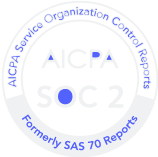
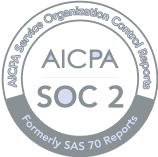
Style tuning, copyright

diff --git a/components/BuiltForScale.tsx b/components/BuiltForScale.tsx
@@ -5,15 +5,16 @@ import Image from "next/image";
 
 const features = [
   "No training on your data",
-  "Modern and secure data practices",
+  "Enterprise-grade data protection",
   "End to end encryption",
   "Audited and tested (SOC-2)",
 ];
 
 const securityBadges = [
-  { 
-    src: "/database.png", 
+  {
+    src: "/database.png",
     alt: "Database",
+    label: "No training on user data",
     corners: {
       topLeft: { h: 70, v: 20 },
       topRight: { h: 10, v: 20 },
@@ -21,9 +22,10 @@ const securityBadges = [
       bottomRight: { h: 8, v: 12 },
     },
   },
-  { 
-    src: "/california.png", 
+  {
+    src: "/california.png",
     alt: "California",
+    label: "CCPA",
     corners: {
       topLeft: { h: 8, v: 12 },
       topRight: { h: 20, v: 28 },
@@ -31,9 +33,10 @@ const securityBadges = [
       bottomRight: { h: 44, v: 20 },
     },
   },
-  { 
-    src: "/aicpa-soc2.png", 
+  {
+    src: "/aicpa-soc2.svg",
     alt: "AICPA SOC 2",
+    label: "SOC-2",
     corners: {
       topLeft: { h: 0, v: 16 },
       topRight: { h: 10, v: 14 },
@@ -41,9 +44,10 @@ const securityBadges = [
       bottomRight: { h: 10, v: 32 },
     },
   },
-  { 
-    src: "/star-circle.png", 
+  {
+    src: "/star-circle.png",
     alt: "GDPR Compliance",
+    label: "GDPR",
     corners: {
       topLeft: { h: 10, v: 15 },
       topRight: { h: 24, v: 18 },
@@ -55,7 +59,7 @@ const securityBadges = [
 
 export default function BuiltForScale() {
   return (
-    <section id="security" className="relative py-28 px-8 bg-[#EFF1F2]">
+    <section id="security" className="relative py-32 px-8 bg-[#EFF1F2]">
       <div className="max-w-5xl mx-auto w-full">
         <div className="grid grid-cols-1 md:grid-cols-2 gap-16 items-center">
           {/* Text content on the left */}
@@ -67,10 +71,13 @@ export default function BuiltForScale() {
           >
             <h2 className="text-xl md:text-2xl font-medium text-gray-900 mb-2 leading-tight">
               Built for scale. Designed for trust. <br />
-              Palace is audited and certified by industry-leading third party standards.
             </h2>
+            <h3 className="text-md md:text-lg font-light text-gray-700 mb-4 leading-tight">
+              Palace is audited and certified by industry-leading <br />
+              third party standards.
+            </h3>
 
-            {/* Bullet points */}
+            {/* Bullet points with icons */}
             <ul className="space-y-3">
               {features.map((feature, index) => (
                 <motion.li
@@ -79,9 +86,34 @@ export default function BuiltForScale() {
                   whileInView={{ opacity: 1, x: 0 }}
                   transition={{ duration: 0.5, delay: index * 0.1 }}
                   viewport={{ once: true }}
-                  className="flex items-start"
+                  className="flex items-center"
                 >
-                  <span className="text-gray-600 mr-2">•</span>
+                  <span className="text-[#5361FD] mr-3 flex-shrink-0">
+                    {index === 0 && (
+                      // Shield icon for "No training on your data"
+                      <svg width="16" height="16" viewBox="0 0 24 24" fill="currentColor">
+                        <path d="M12 2L4 7v6c0 5.55 3.84 10.74 9 12 5.16-1.26 9-6.45 9-12V7l-8-5zm0 10h7c-.53 4.12-3.28 7.79-7 8.94V12H5V8.3l7-4.35v8.05z" />
+                      </svg>
+                    )}
+                    {index === 1 && (
+                      // Lock icon for "Enterprise-grade data protection"
+                      <svg width="16" height="16" viewBox="0 0 24 24" fill="currentColor">
+                        <path d="M18 8h-1V6c0-2.76-2.24-5-5-5S7 3.24 7 6v2H6c-1.1 0-2 .9-2 2v10c0 1.1.9 2 2 2h12c1.1 0 2-.9 2-2V10c0-1.1-.9-2-2-2zm-6 9c-1.1 0-2-.9-2-2s.9-2 2-2 2 .9 2 2-.9 2-2 2zm3.1-9H8.9V6c0-1.71 1.39-3.1 3.1-3.1 1.71 0 3.1 1.39 3.1 3.1v2z" />
+                      </svg>
+                    )}
+                    {index === 2 && (
+                      // Key icon for "End to end encryption"
+                      <svg width="16" height="16" viewBox="0 0 24 24" fill="currentColor">
+                        <path d="M12.65 10C11.83 7.67 9.61 6 7 6c-3.31 0-6 2.69-6 6s2.69 6 6 6c2.61 0 4.83-1.67 5.65-4H17v4h4v-4h2v-4H12.65zM7 14c-1.1 0-2-.9-2-2s.9-2 2-2 2 .9 2 2-.9 2-2 2z" />
+                      </svg>
+                    )}
+                    {index === 3 && (
+                      // Check circle icon for "Audited and tested (SOC-2)"
+                      <svg width="16" height="16" viewBox="0 0 24 24" fill="currentColor">
+                        <path d="M12 2C6.48 2 2 6.48 2 12s4.48 10 10 10 10-4.48 10-10S17.52 2 12 2zm-2 15l-5-5 1.41-1.41L10 14.17l7.59-7.59L19 8l-9 9z" />
+                      </svg>
+                    )}
+                  </span>
                   <span className="text-gray-700">{feature}</span>
                 </motion.li>
               ))}
@@ -199,7 +231,7 @@ export default function BuiltForScale() {
                       }}
                     />
                   )}
-                  
+
                   {/* California - top right gradient */}
                   {index === 1 && (
                     <div
@@ -214,7 +246,7 @@ export default function BuiltForScale() {
                       }}
                     />
                   )}
-                  
+
                   {/* Star circle - bottom right gradient */}
                   {index === 3 && (
                     <div
@@ -237,10 +269,16 @@ export default function BuiltForScale() {
                     height={80}
                     className="w-20 h-20 object-contain"
                     style={{
-                      filter:
-                        "brightness(0) saturate(100%) invert(58%) sepia(8%) saturate(191%) hue-rotate(172deg) brightness(94%) contrast(88%)",
+                      filter: badge.src.endsWith(".svg")
+                        ? "none"
+                        : "brightness(0) saturate(100%) invert(58%) sepia(8%) saturate(191%) hue-rotate(172deg) brightness(94%) contrast(88%)",
                     }}
                   />
+
+                  {/* Helper text at bottom left */}
+                  <span className="absolute bottom-3 left-3 text-xs text-gray-500 font-normal">
+                    {badge.label}
+                  </span>
                 </div>
               </div>
             ))}

diff --git a/components/Footer.tsx b/components/Footer.tsx
@@ -2,45 +2,53 @@
 
 export default function Footer() {
   return (
-    <footer className="py-8 px-8 bg-[#EFF1F2] border-t border-gray-200">
-      <div className="max-w-7xl mx-auto flex justify-center items-center gap-6">
-        {/* LinkedIn */}
-        <a
-          href="https://www.linkedin.com/company/trypalace/"
-          target="_blank"
-          rel="noopener noreferrer"
-          className="text-gray-600 hover:text-gray-900 transition-colors"
-          aria-label="LinkedIn"
-        >
-          <svg
-            width="24"
-            height="24"
-            viewBox="0 0 24 24"
-            fill="currentColor"
-            xmlns="http://www.w3.org/2000/svg"
+    <footer className="py-8 bg-[#EFF1F2] border-t border-gray-200">
+      <div className="mx-auto px-[10%] flex justify-between items-center">
+        {/* Social icons on the left */}
+        <div className="flex items-center gap-6">
+          {/* LinkedIn */}
+          <a
+            href="https://www.linkedin.com/company/trypalace/"
+            target="_blank"
+            rel="noopener noreferrer"
+            className="text-gray-600 hover:text-gray-900 transition-colors"
+            aria-label="LinkedIn"
           >
-            <path d="M20.447 20.452h-3.554v-5.569c0-1.328-.027-3.037-1.852-3.037-1.853 0-2.136 1.445-2.136 2.939v5.667H9.351V9h3.414v1.561h.046c.477-.9 1.637-1.85 3.37-1.85 3.601 0 4.267 2.37 4.267 5.455v6.286zM5.337 7.433c-1.144 0-2.063-.926-2.063-2.065 0-1.138.92-2.063 2.063-2.063 1.14 0 2.064.925 2.064 2.063 0 1.139-.925 2.065-2.064 2.065zm1.782 13.019H3.555V9h3.564v11.452zM22.225 0H1.771C.792 0 0 .774 0 1.729v20.542C0 23.227.792 24 1.771 24h20.451C23.2 24 24 23.227 24 22.271V1.729C24 .774 23.2 0 22.222 0h.003z" />
-          </svg>
-        </a>
+            <svg
+              width="24"
+              height="24"
+              viewBox="0 0 24 24"
+              fill="currentColor"
+              xmlns="http://www.w3.org/2000/svg"
+            >
+              <path d="M20.447 20.452h-3.554v-5.569c0-1.328-.027-3.037-1.852-3.037-1.853 0-2.136 1.445-2.136 2.939v5.667H9.351V9h3.414v1.561h.046c.477-.9 1.637-1.85 3.37-1.85 3.601 0 4.267 2.37 4.267 5.455v6.286zM5.337 7.433c-1.144 0-2.063-.926-2.063-2.065 0-1.138.92-2.063 2.063-2.063 1.14 0 2.064.925 2.064 2.063 0 1.139-.925 2.065-2.064 2.065zm1.782 13.019H3.555V9h3.564v11.452zM22.225 0H1.771C.792 0 0 .774 0 1.729v20.542C0 23.227.792 24 1.771 24h20.451C23.2 24 24 23.227 24 22.271V1.729C24 .774 23.2 0 22.222 0h.003z" />
+            </svg>
+          </a>
 
-        {/* X (Twitter) */}
-        <a
-          href="https://x.com/usepalace"
-          target="_blank"
-          rel="noopener noreferrer"
-          className="text-gray-600 hover:text-gray-900 transition-colors"
-          aria-label="X (Twitter)"
-        >
-          <svg
-            width="24"
-            height="24"
-            viewBox="0 0 24 24"
-            fill="currentColor"
-            xmlns="http://www.w3.org/2000/svg"
+          {/* X (Twitter) */}
+          <a
+            href="https://x.com/usepalace"
+            target="_blank"
+            rel="noopener noreferrer"
+            className="text-gray-600 hover:text-gray-900 transition-colors"
+            aria-label="X (Twitter)"
           >
-            <path d="M18.244 2.25h3.308l-7.227 8.26 8.502 11.24H16.17l-5.214-6.817L4.99 21.75H1.68l7.73-8.835L1.254 2.25H8.08l4.713 6.231zm-1.161 17.52h1.833L7.084 4.126H5.117z" />
-          </svg>
-        </a>
+            <svg
+              width="24"
+              height="24"
+              viewBox="0 0 24 24"
+              fill="currentColor"
+              xmlns="http://www.w3.org/2000/svg"
+            >
+              <path d="M18.244 2.25h3.308l-7.227 8.26 8.502 11.24H16.17l-5.214-6.817L4.99 21.75H1.68l7.73-8.835L1.254 2.25H8.08l4.713 6.231zm-1.161 17.52h1.833L7.084 4.126H5.117z" />
+            </svg>
+          </a>
+        </div>
+
+        {/* Copyright text on the right */}
+        <div className="text-sm text-gray-500">
+          Copyright 2025 Lucid Spring Inc. All Rights Reserved.
+        </div>
       </div>
     </footer>
   );

diff --git a/components/Integrations.tsx b/components/Integrations.tsx
@@ -78,8 +78,8 @@ export default function Integrations() {
               Integrations
             </h2>
             <p className="text-md text-black leading-relaxed">
-              Your Palace can link to your entire stack and is built to funnel quality information
-              into a team wide resource that can serve as a single source of truth
+              Create a single pane of glass for your team to access key investment information - any
+              type, from any source.
             </p>
           </motion.div>
         </div>
@@ -90,9 +90,7 @@ export default function Integrations() {
           onClick={() => setIsExpanded(!isExpanded)}
           className="w-full flex items-center justify-center gap-2 py-2 text-black hover:text-gray-700 transition-colors"
         >
-          <span className="text-lg font-medium">
-            {isExpanded ? "Collapse Integrations" : "Explore Integrations"}
-          </span>
+          <span className="text-lg font-medium">Explore Integrations</span>
           {isExpanded ? <ChevronUp size={20} /> : <ChevronDown size={20} />}
         </button>
 

diff --git a/components/DesignedToScale.tsx b/components/DesignedToScale.tsx
@@ -139,8 +139,8 @@ export default function DesignedToScale() {
               Designed to scale with your team
             </h2>
             <p className="text-md text-black leading-relaxed">
-              Each team member that you add to your Palace will be able to leverage all the past
-              reporting and stay updated as new investments are made and new content is uploaded
+              Give your team instant access to the insights they need. Assign role-based permissions
+              for all historical and active reporting.
             </p>
           </motion.div>
         </div>
